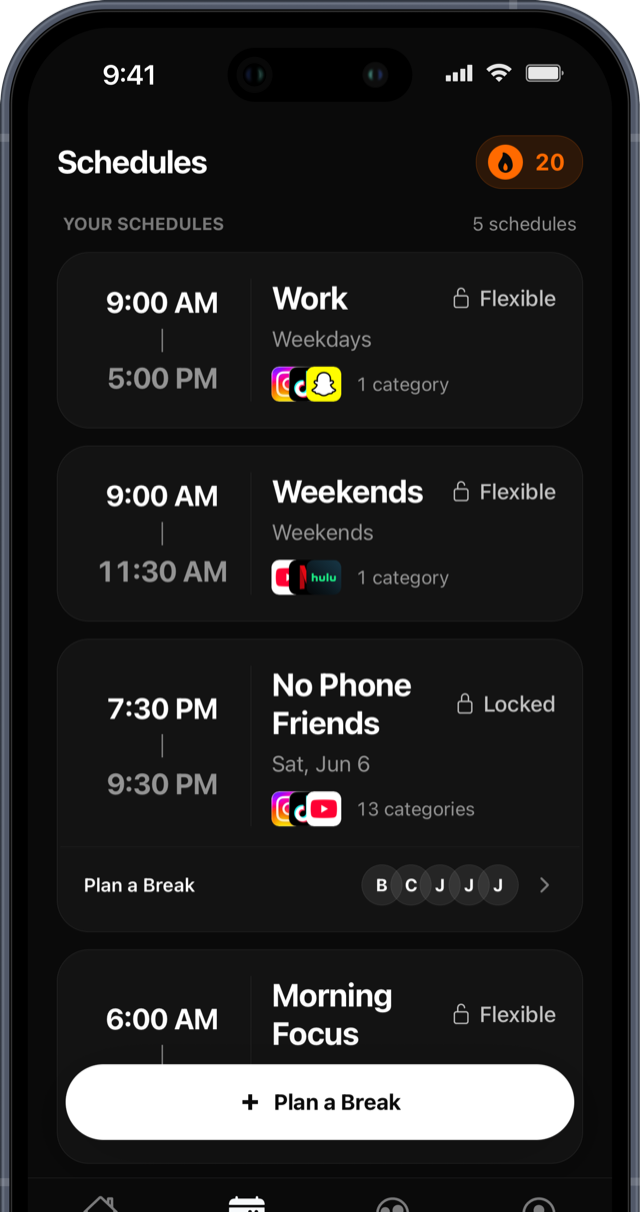
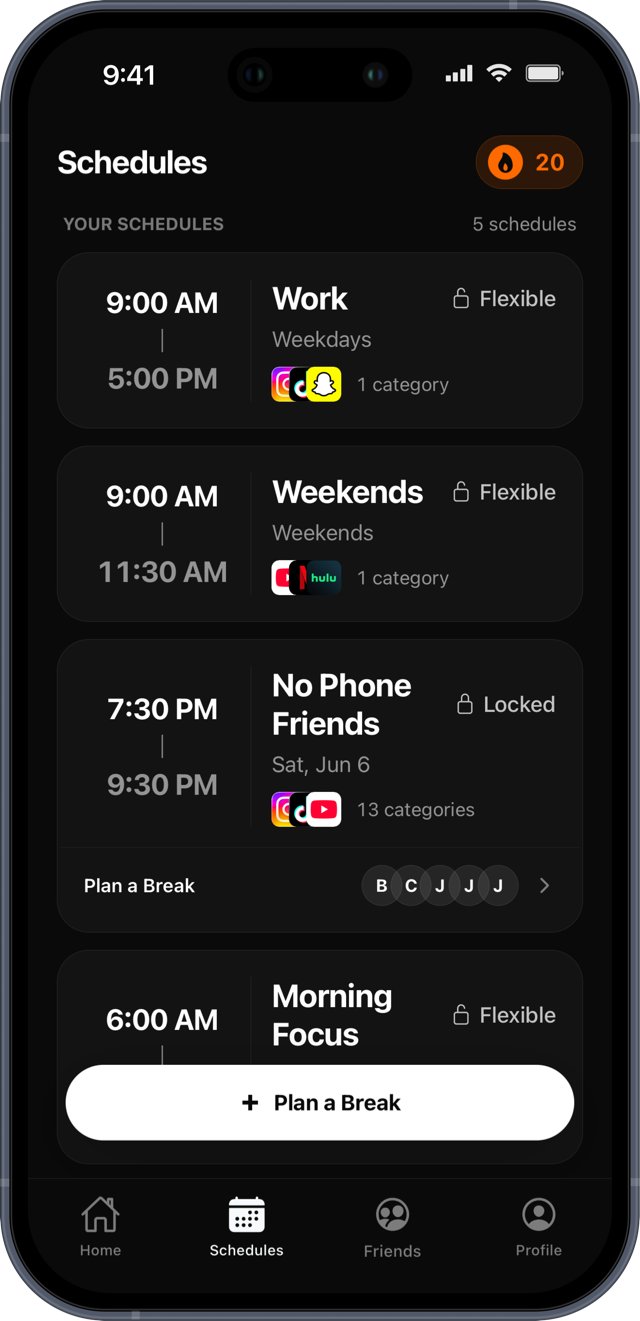
Replace site screenshots with full Figma phone mockups; drop gallery section
- Re-export PHONE groups unclipped (cloned outside App Store frames in
  Figma, then cleaned up) so the full bottom bezel is included
- Swap hero, Scheduled Breaks, Friends, and Streaks screenshots to the
  new phone mockups
- Remove the standalone screenshots gallery section

diff --git a/index.html b/index.html
@@ -115,19 +115,19 @@
             <!-- Phone 1: Active Break (Flexible, Social blocked) -->
             <div class="phone phone-left">
                 <div class="phone-frame">
-                    <img src="assets/app-active-break-v3.png" alt="BreakOff active break screen with Social apps blocked" class="phone-screenshot">
+                    <img src="assets/phone-2-scroll-less-build-more.png" alt="BreakOff active break screen with Social apps blocked" class="phone-screenshot" style="border-radius:0;box-shadow:none;filter:drop-shadow(0 20px 40px rgba(0,0,0,0.18));">
                 </div>
             </div>
             <!-- Phone 2: Home Screen -->
             <div class="phone phone-center">
                 <div class="phone-frame">
-                    <img src="assets/app-home-v3.png" alt="BreakOff home screen with daily progress" class="phone-screenshot">
+                    <img src="assets/phone-1-take-your-time-back.png" alt="BreakOff home screen with daily progress" class="phone-screenshot" style="border-radius:0;box-shadow:none;filter:drop-shadow(0 20px 40px rgba(0,0,0,0.18));">
                 </div>
             </div>
             <!-- Phone 3: Schedules List -->
             <div class="phone phone-right">
                 <div class="phone-frame">
-                    <img src="assets/app-schedules-list-v3.png" alt="BreakOff schedules list" class="phone-screenshot">
+                    <img src="assets/phone-3-schedule-your-breaks.png" alt="BreakOff schedules list" class="phone-screenshot" style="border-radius:0;box-shadow:none;filter:drop-shadow(0 20px 40px rgba(0,0,0,0.18));">
                 </div>
             </div>
         </div>
@@ -145,8 +145,7 @@
             <div class="features-grid">
                 <div class="feature-card-large">
                     <div class="feature-phone" style="display:flex;gap:16px;justify-content:center;flex-wrap:wrap;">
-                        <img src="assets/app-schedule-repeats-v3.png" alt="BreakOff Plan a Break, Repeats tab" class="feature-phone-screenshot">
-                        <img src="assets/app-schedule-v3.png" alt="BreakOff Plan a Break, Dates tab" class="feature-phone-screenshot">
+                        <img src="assets/phone-6-break-together.png" alt="BreakOff Plan a Break screen" class="feature-phone-screenshot" style="width:240px;border-radius:0;box-shadow:none;filter:drop-shadow(0 10px 30px rgba(0,0,0,0.15));">
                     </div>
                     <div class="feature-card-large-content">
                         <h3>Scheduled Breaks</h3>
@@ -252,7 +251,7 @@
         <div class="container">
             <div style="display:flex;flex-wrap:wrap;align-items:center;justify-content:center;gap:48px;background:#fafafa;border:1px solid #e5e5e5;border-radius:24px;padding:48px;">
                 <div style="flex:0 0 240px;display:flex;justify-content:center;">
-                    <img src="assets/app-friends-v3.png" alt="BreakOff Friends and Leaderboard screen" class="phone-screenshot" style="width:240px;">
+                    <img src="assets/phone-5-better-with-friends.png" alt="BreakOff Friends and Leaderboard screen" class="phone-screenshot" style="width:240px;border-radius:0;box-shadow:none;filter:drop-shadow(0 16px 36px rgba(0,0,0,0.16));">
                 </div>
                 <div style="flex:1 1 320px;min-width:280px;">
                     <div class="section-badge">Friends &amp; Leaderboard</div>
@@ -273,7 +272,7 @@
                     <p style="color:#737373;font-size:1.05rem;line-height:1.7;">Every break you take lights up your calendar. See your current streak, your best streak, and the days you hit your goal at a glance. A simple visual nudge to keep showing up for yourself.</p>
                 </div>
                 <div style="flex:0 0 240px;display:flex;justify-content:center;">
-                    <img src="assets/app-streaks-v3.png" alt="BreakOff Streak History calendar showing an 18 day streak" class="phone-screenshot" style="width:240px;">
+                    <img src="assets/phone-4-build-your-streaks.png" alt="BreakOff Streak History calendar" class="phone-screenshot" style="width:240px;border-radius:0;box-shadow:none;filter:drop-shadow(0 16px 36px rgba(0,0,0,0.16));">
                 </div>
             </div>
         </div>
@@ -306,26 +305,6 @@
                     <h3>Build Your Streak</h3>
                     <p>Track your progress, build daily streaks, and earn rewards for staying consistent with your digital wellness goals.</p>
                 </div>
-            </div>
-        </div>
-    </section>
-
-    <!-- Screenshots Gallery -->
-    <section class="screenshots" id="screenshots" style="padding:0 0 96px;">
-        <div class="container">
-            <div class="section-header">
-                <div class="section-badge">Screenshots</div>
-                <h2>See BreakOff<br>in action</h2>
-                <p>A quick look inside the app, from starting your first break to building streaks with friends.</p>
-            </div>
-            <div style="display:flex;gap:28px;overflow-x:auto;padding:8px 4px 24px;scroll-snap-type:x mandatory;-webkit-overflow-scrolling:touch;">
-                <img src="assets/phone-1-take-your-time-back.png" alt="BreakOff home screen with daily break progress" loading="lazy" width="640" height="1212" style="flex:0 0 auto;width:250px;height:auto;scroll-snap-align:start;filter:drop-shadow(0 12px 24px rgba(0,0,0,0.18));">
-                <img src="assets/phone-2-scroll-less-build-more.png" alt="BreakOff active break timer" loading="lazy" width="640" height="1212" style="flex:0 0 auto;width:250px;height:auto;scroll-snap-align:start;filter:drop-shadow(0 12px 24px rgba(0,0,0,0.18));">
-                <img src="assets/phone-3-schedule-your-breaks.png" alt="BreakOff break schedules" loading="lazy" width="640" height="1212" style="flex:0 0 auto;width:250px;height:auto;scroll-snap-align:start;filter:drop-shadow(0 12px 24px rgba(0,0,0,0.18));">
-                <img src="assets/phone-4-build-your-streaks.png" alt="BreakOff streak calendar" loading="lazy" width="640" height="1212" style="flex:0 0 auto;width:250px;height:auto;scroll-snap-align:start;filter:drop-shadow(0 12px 24px rgba(0,0,0,0.18));">
-                <img src="assets/phone-5-better-with-friends.png" alt="BreakOff QR code break screen" loading="lazy" width="640" height="1212" style="flex:0 0 auto;width:250px;height:auto;scroll-snap-align:start;filter:drop-shadow(0 12px 24px rgba(0,0,0,0.18));">
-                <img src="assets/phone-6-break-together.png" alt="BreakOff Plan a Break with friends" loading="lazy" width="640" height="1212" style="flex:0 0 auto;width:250px;height:auto;scroll-snap-align:start;filter:drop-shadow(0 12px 24px rgba(0,0,0,0.18));">
-                <img src="assets/phone-7-make-it-yours.png" alt="BreakOff account and customization settings" loading="lazy" width="640" height="1212" style="flex:0 0 auto;width:250px;height:auto;scroll-snap-align:start;filter:drop-shadow(0 12px 24px rgba(0,0,0,0.18));">
             </div>
         </div>
     </section>
